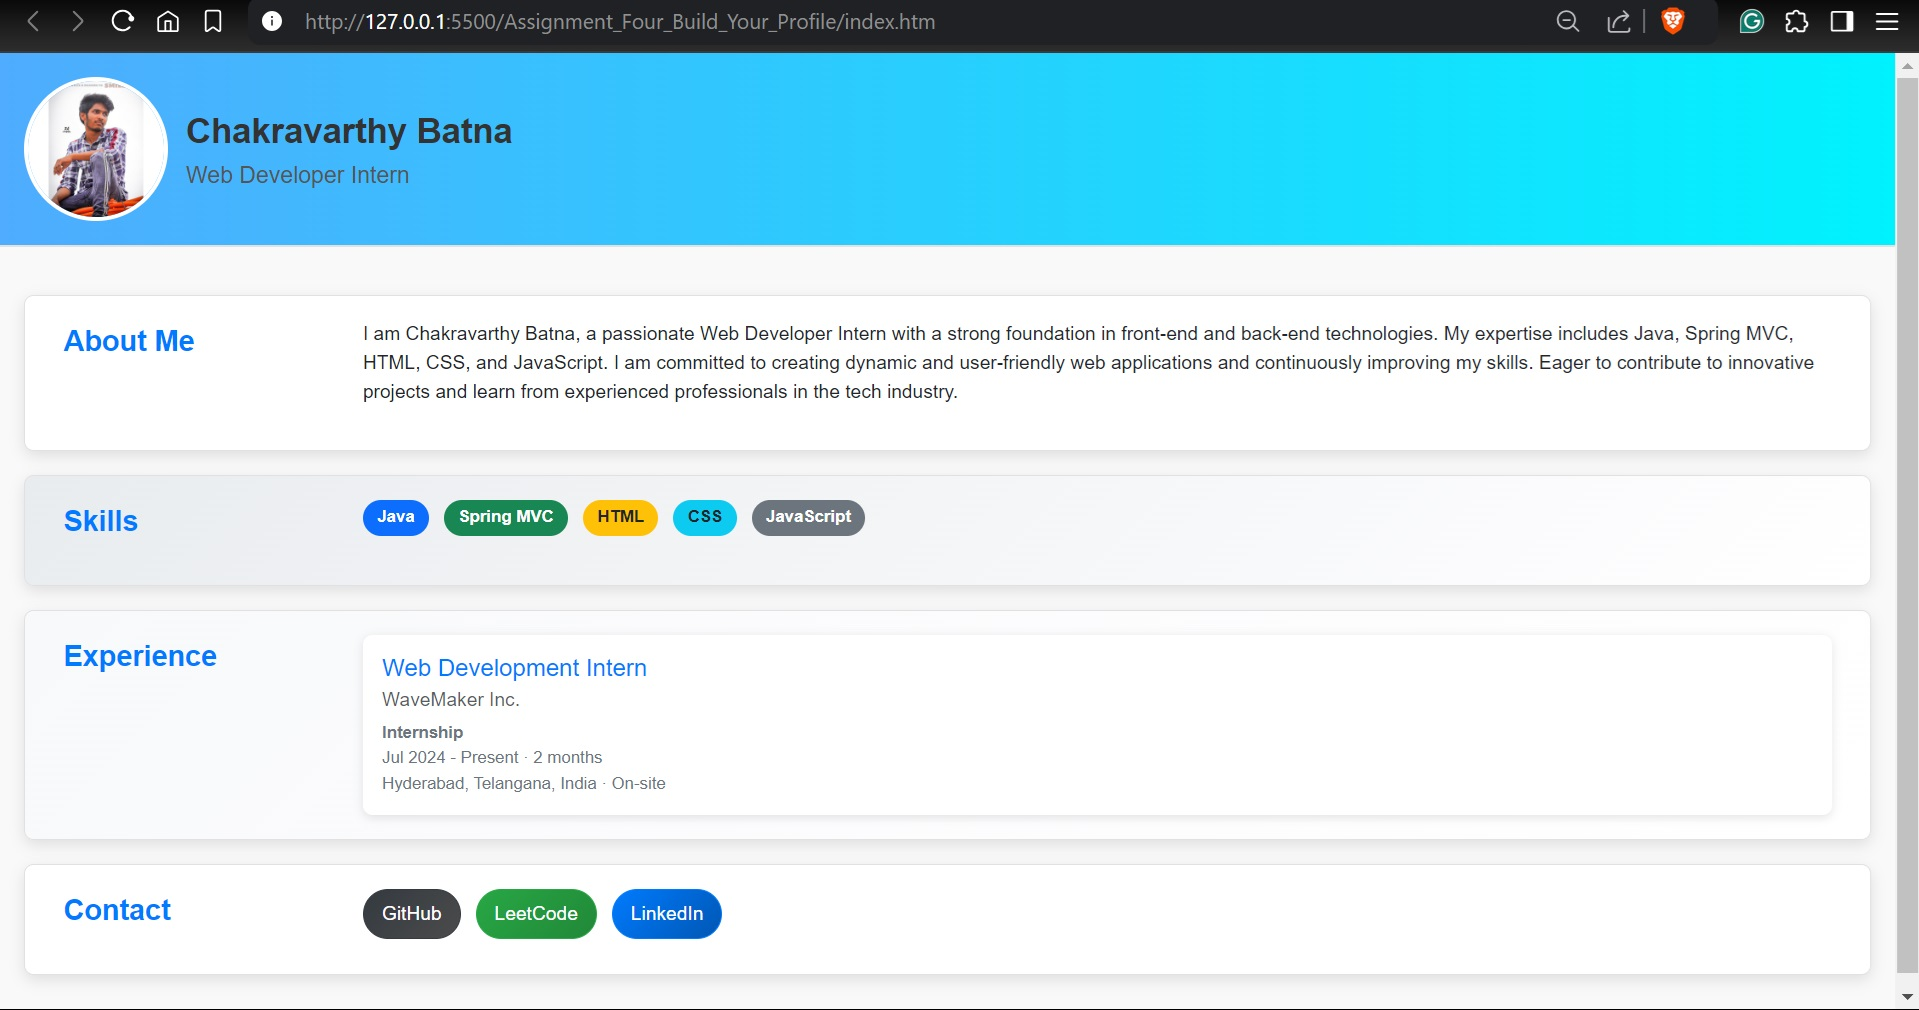
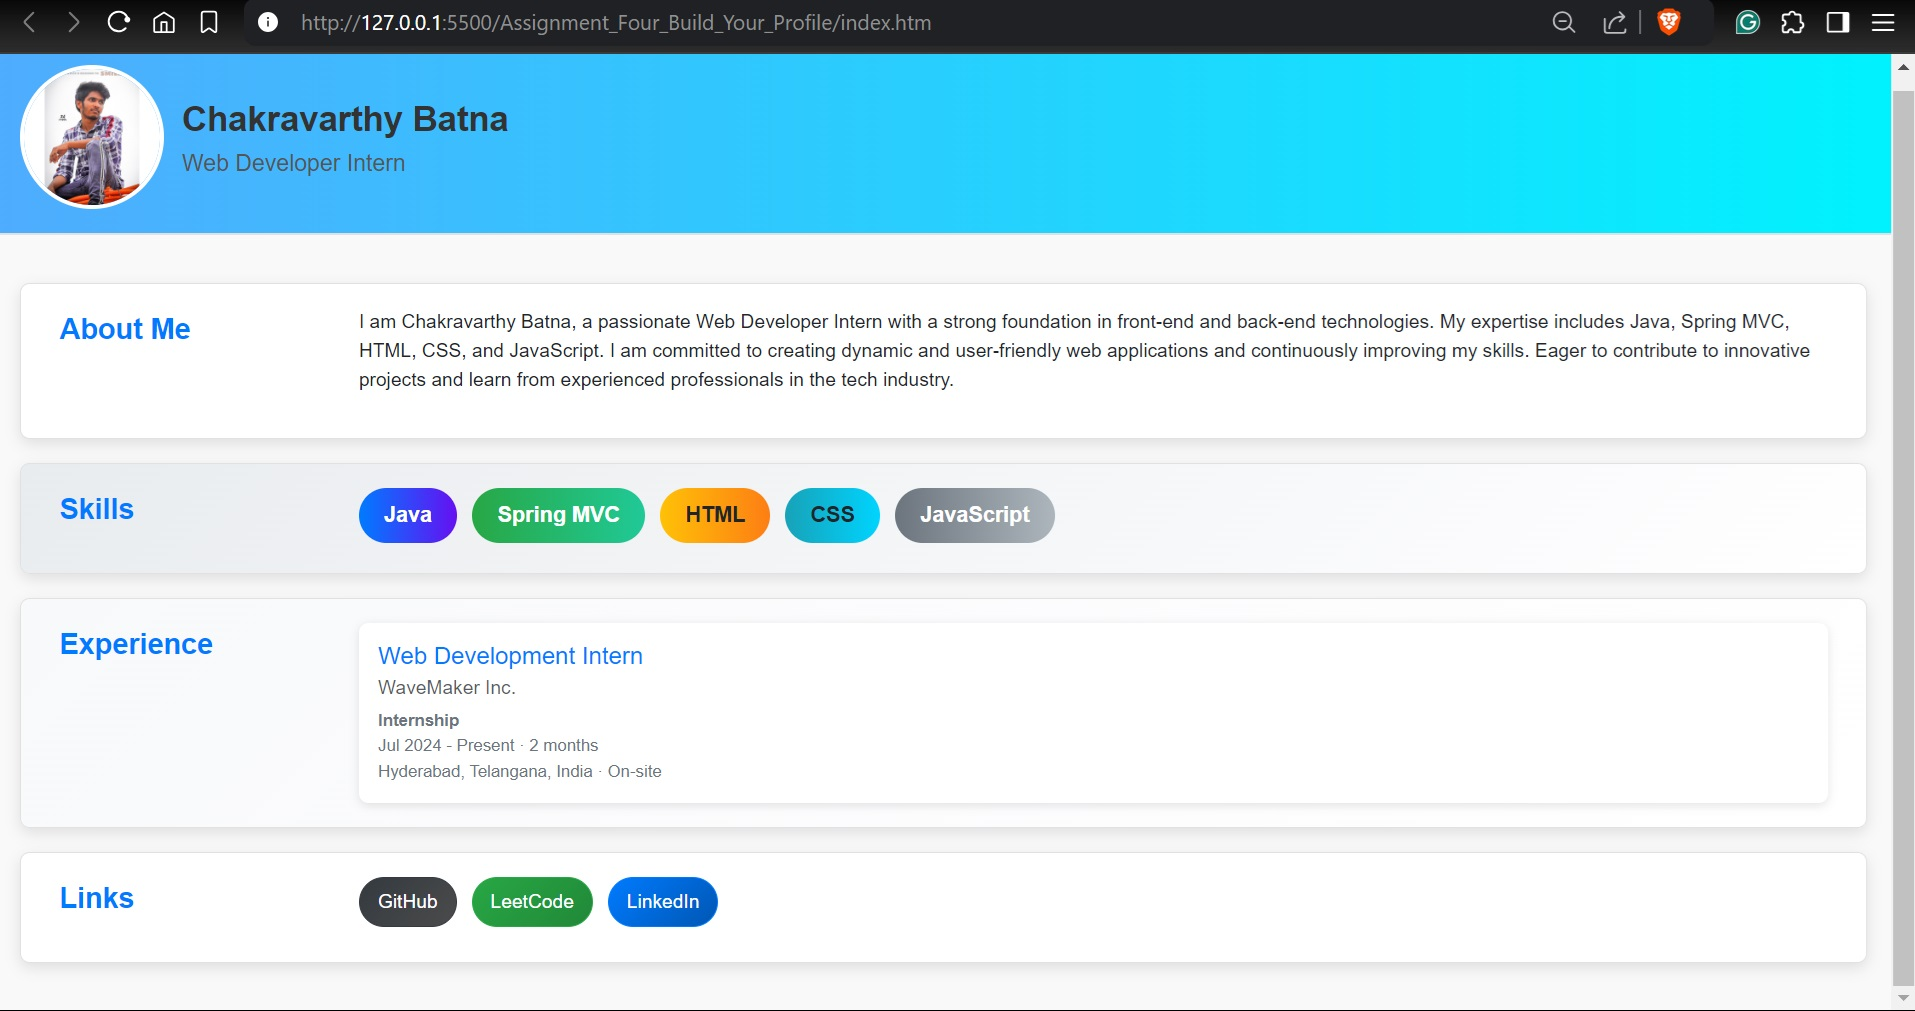
changed appearance for assignment 4 - build your profile

diff --git a/Assignment_Four_Build_Your_Profile/style/style.css b/Assignment_Four_Build_Your_Profile/style/style.css
@@ -61,27 +61,33 @@ body {
   padding-left: 0;
 }
 .badge {
-  font-size: 14px;
-  padding: 8px 12px;
+  font-size: 18px;
+  padding: 14px 21px;
   margin-right: 8px;
-  margin-bottom: 8px;
-  border-radius: 20px;
+  margin-bottom: 4px;
+  border-radius: 23px;
 }
 .badge.bg-primary {
-  background-color: #007bff;
+  background: linear-gradient(to right, #007bff, #6610f2);
+  color: white;
 }
 .badge.bg-success {
-  background-color: #28a745;
+  background: linear-gradient(to right, #28a745, #20c997);
+  color: white;
 }
 .badge.bg-warning {
-  background-color: #ffc107;
+  background: linear-gradient(to right, #ffc107, #fd7e14);
+  color: black;
 }
 .badge.bg-info {
-  background-color: #17a2b8;
+  background: linear-gradient(to right, #17a2b8, #00d4ff);
+  color: white;
 }
 .badge.bg-secondary {
-  background-color: #6c757d;
+  background: linear-gradient(to right, #6c757d, #adb5bd);
+  color: white;
 }
+
 .experience-section .card {
   border: none;
   box-shadow: 0 2px 8px rgba(0, 0, 0, 0.1);

diff --git a/Assignment_Four_Build_Your_Profile/index.htm b/Assignment_Four_Build_Your_Profile/index.htm
@@ -67,10 +67,10 @@
                 </div>
             </div>
 
-            <!-- Contact Section -->
+            <!-- Links Section -->
             <div class="row section contact-section">
                 <div class="col-md-2">
-                    <div class="section-title">Contact</div>
+                    <div class="section-title">Links</div>
                 </div>
                 <div class="col-md-10">
                     <a href="https://github.com/chakravarthybatna" class="btn btn-dark">GitHub</a>
